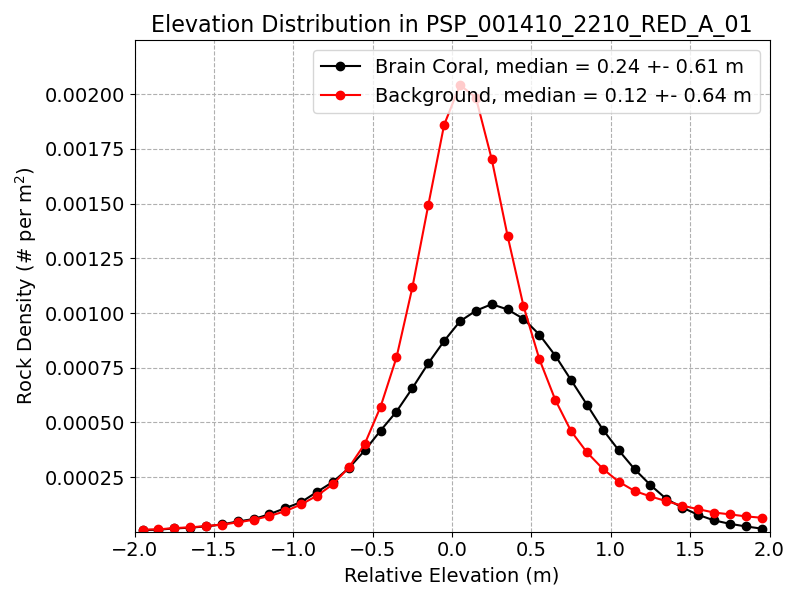
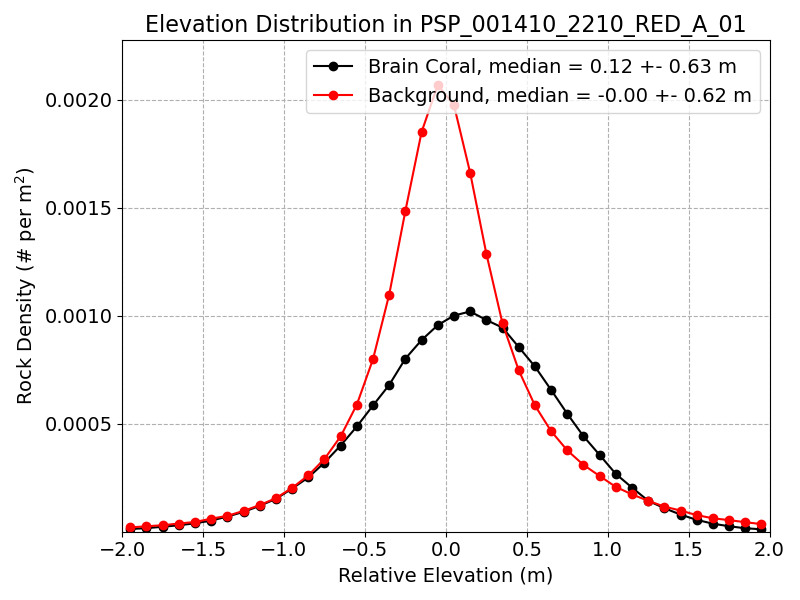
updates to relative elevation and slope estimate

diff --git a/mask2dem.py b/mask2dem.py
@@ -152,14 +152,14 @@ if __name__ == "__main__":
         non_nan_x = xg.flatten()[~np.isnan(flat_dem)]
         non_nan_y = yg.flatten()[~np.isnan(flat_dem)]
 
-        # go upto quadratic
-        # A = np.vstack([non_nan_x, non_nan_y, np.ones(len(non_nan_x))]).T
-        # m, n, b = np.linalg.lstsq(A, non_nan_dem, rcond=None)[0]
-        # plane_elevation = m*xg + n*yg + b
+        # linear regression
+        A = np.vstack([non_nan_x, non_nan_y, np.ones(len(non_nan_x))]).T
+        m, n, b = np.linalg.lstsq(A, non_nan_dem, rcond=None)[0]
+        plane_elevation = m*xg + n*yg + b
     
-        A = np.vstack([non_nan_x, non_nan_y, non_nan_x**2, non_nan_y**2, np.ones(len(non_nan_x))]).T
-        m, n, m2, n2, b = np.linalg.lstsq(A, non_nan_dem, rcond=None)[0]
-        plane_elevation = m*xg + n*yg + m2*xg**2 + n2*yg**2 + b
+        # A = np.vstack([non_nan_x, non_nan_y, non_nan_x**2, non_nan_y**2, np.ones(len(non_nan_x))]).T
+        # m, n, m2, n2, b = np.linalg.lstsq(A, non_nan_dem, rcond=None)[0]
+        # plane_elevation = m*xg + n*yg + m2*xg**2 + n2*yg**2 + b
 
         # compute magnitude of gradient
         mag_linear = np.sqrt(m**2 + n**2)
@@ -797,3 +797,7 @@ if __name__ == "__main__":
     # save pickle of rock data
     # with open(os.path.join(outdir,'rock_data.pkl'), 'wb') as f:
     #     pickle.dump(rock_data, f)
+
+
+    # TODO calculate absolute gradient instead of relative? fit smaller plane to estimate?
+    

diff --git a/README.md b/README.md
@@ -1,4 +1,4 @@
-# HiRISE Rock Detector
+# Automatic Rock Detection and Mapping from HiRISE Imagery
 
 An automated algorithm for measuring the frequency and size distribution of boulders on Mars using data from HiRISE/MRO. We developed an interactive application for making training data in a quick manner which is later used to optimize a classification algorithm. Digital elevation models can be combined with our results to search for correlations between rock size and elevation as a means of understanding the geological history of the Martian surface. For example, in periglacial terrains, the spatial distribution of rocks can be used to infer the history of ice and mechanisms that have shaped the landscape e.g. freeze-thaw cycles, ice sublimation, and ice flow. 
 
@@ -71,7 +71,9 @@ python mask2dem.py
 --dem images/DTEEC_002175_2210_001410_2210_A01.IMG
 ```
 
-We're interested in measure the rock density inside of a terrain called Brain Coral which has similarity to terrain on Earth called a sorted stone circle. The masks are generated from https://github.com/pearsonkyle/Mars-Brain-Coral-Network and look like this:
+![](output/PSP_001410_2210_RED_A_01_ORTHO/rock_7735_8325.png)
+
+Brain coral is a terrain on Mars that has a similar appearance to a sorted stone circle on Earth. The rock size distribution can be used to infer the geological history of the terrain. For example, the rock size distribution can be used to infer the history of ice and mechanisms that have shaped the landscape e.g. freeze-thaw cycles, ice sublimation, and ice flow. Brain coral masks can be integrated with our analysis and are generated from https://github.com/pearsonkyle/Mars-Brain-Coral-Network
 
 ![](images/PSP_001410_2210_RED_A_01_ORTHO_classifier_mask.png)
 
@@ -80,8 +82,6 @@ That mask is low resolution which is from the classifier algorithm in that repo 
 ![](output/PSP_001410_2210_RED_A_01_ORTHO/elevation_distribution.png)
 
 ~1.5 million rocks go into estimating those distributions. They're computed from many tiles that look like such:
-
-![](output/PSP_001410_2210_RED_A_01_ORTHO/rock_7735_8325.png)
 
 ![](output/PSP_001410_2210_RED_A_01_ORTHO/cdf_gradient_distribution.png)
 
@@ -206,11 +206,14 @@ This software may be subject to U.S. export control laws. By accepting this soft
 The research described in this publication was carried out in part at the Jet Propulsion Laboratory, California Institute of Technology, under a contract with the National Aeronautics and Space Administration. This research has made use of the High Resolution Imaging Science Experiment on the Mars Reconnaissance Orbiter, under contract with the National Aeronautics and Space Administration. We acknowledge funding support from the National Aeronautics and Space Administration (NASA) Mars Data Analysis Program (MDAP) Grant Number NNH19ZDA001N.
 
 
-# Questions?
-Does the abundance match the golumbeck images?
-add stdev to relative elevation distribution
-What would happen if you subtract a local slope?
-What is the overall slope distribution?
-- Include figure involving DEM comparison with plane estimation
-- look into slope distribution with new plane subtracted DEM
-- statistical tests between distributions (KL divergence, KS/JS test, etc)
+# TODO
+- spatial distribution of rock density (~10-100 m windows)
+- show slope distribution without subtracting plane 
+- add statistical test for distributions
+- Change vertical stretch in gradient plot
+- How to estimate peak to trough height in brain coral areas?
+- peak/trough mask based on gradients? - look at height distribution in brain coral areas
+
+
+## Outstanding Questions
+- Does the abundance match the golumbeck images?
